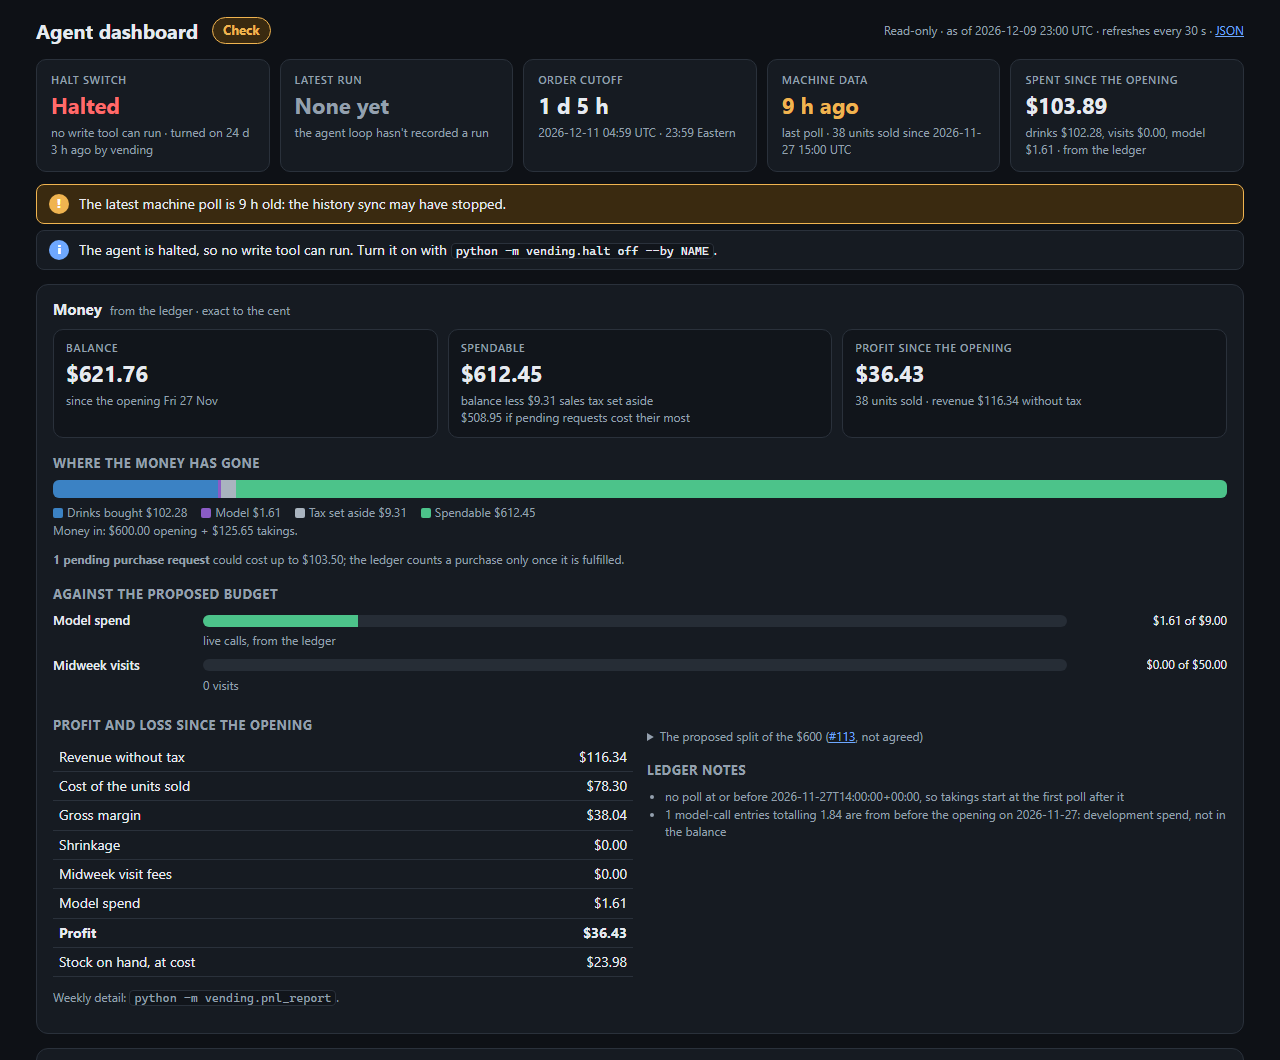
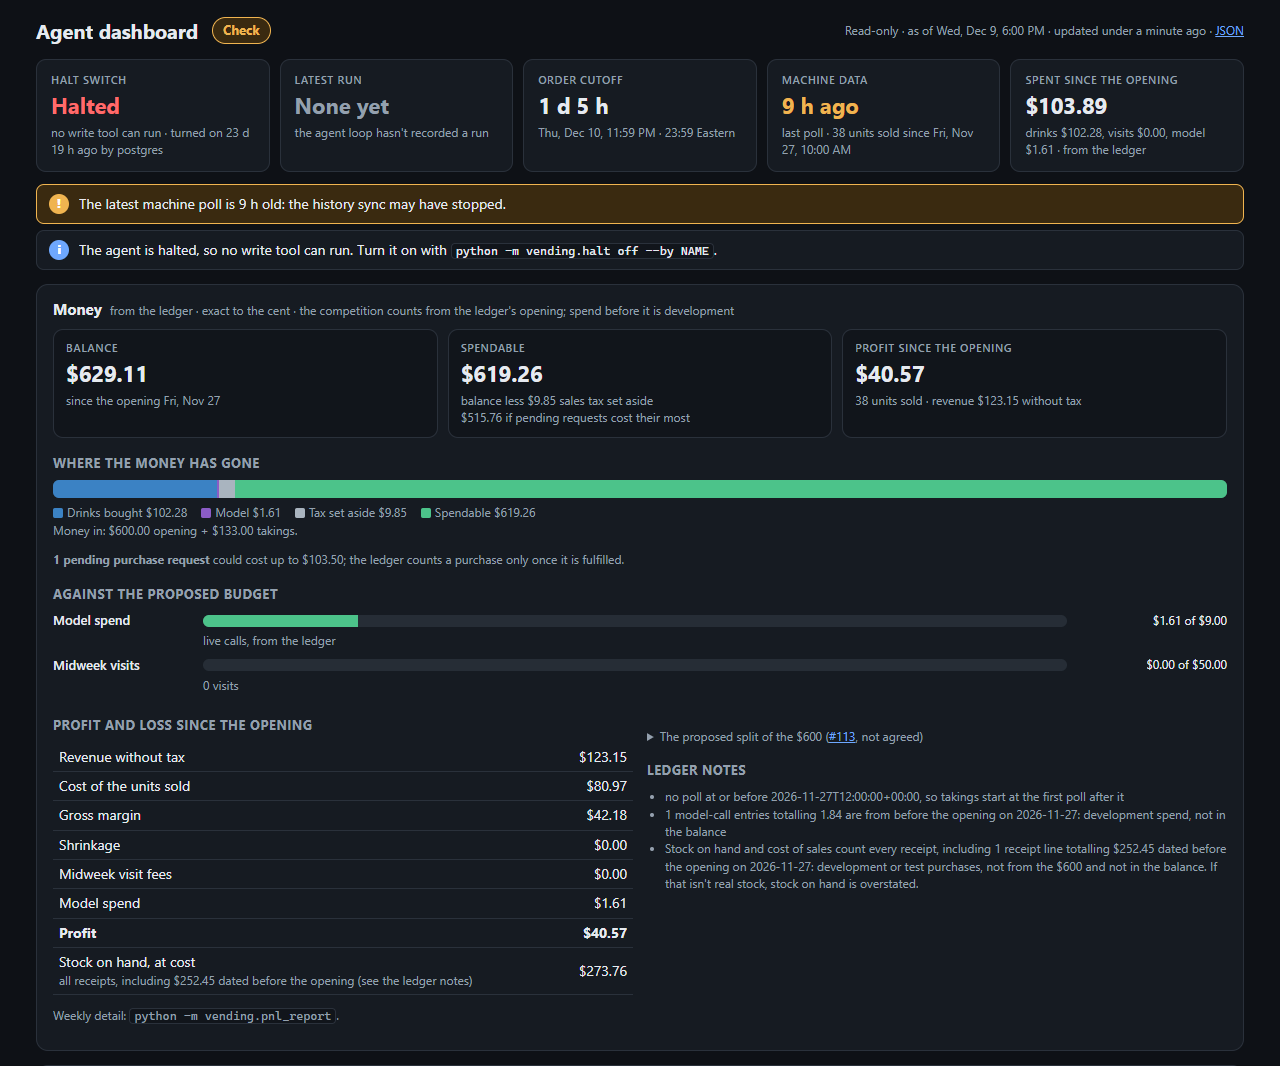
Dashboard docs: the money panel's period, its sources, and new screenshots
The module outline lists the money panel, the Tiles row names
vending.ledger as a source and says spend before the opening is
development, and "Where it could go next" no longer says the balance
tiles need the ledger. The screenshots show the stock line's note for
receipts from before the opening.

diff --git a/docs/dashboard.md b/docs/dashboard.md
@@ -31,13 +31,13 @@ what changed and why.
 | Part | What's in it | Where it comes from |
 |---|---|---|
 | Verdict | **OK**, **Check** or **Problem** next to the title (and in the browser tab), from the worst item in Needs attention | everything below |
-| Tiles | The halt switch and who last changed it; the latest run and how long it has run; a countdown to the Thursday 23:59 Eastern cutoff; how old the last machine poll is and units sold since; what has been spent on drinks (fulfilled requests) and on the model (run costs); once the ledger has its opening entry, what has been spent since the opening, from the ledger, so the page gives one figure; on the container, who has looked: browsers, visits and sign-ins, all time and this week (`vending.visits`; see [`deploy.md`](deploy.md#the-public-pages)) | `config`, `agent_runs`, `polls`, `purchase_requests`, `page_visits`, `page_visit_totals` |
+| Tiles | The halt switch and who last changed it; the latest run and how long it has run; a countdown to the Thursday 23:59 Eastern cutoff; how old the last machine poll is and units sold since; what has been spent on drinks (fulfilled requests) and on the model (run costs), labelled as development and test spend before the opening, not from the \$600; once the ledger's opening entry is in the past, what has been spent since the opening, from the ledger, so the page gives one figure; on the container, who has looked: browsers, visits and sign-ins, all time and this week (`vending.visits`; see [`deploy.md`](deploy.md#the-public-pages)) | `config`, `agent_runs`, `polls`, `purchase_requests`, `vending.ledger`, `page_visits`, `page_visit_totals` |
 | Needs attention | One sentence per thing a person should look at, worst first. **Problem:** the latest run failed, or has said `running` for over 2 hours. **Check:** refused or failed tool calls in the last 24 hours; polls over 3 hours old; a catalog request stuck in `sending` or `unknown`; the latest purchase request rejected; and within 24 hours of the cutoff, still halted or no Friday request sent. **Info** (doesn't change the verdict): halted, no polls yet, stock warnings from the receipts, a panel whose table is missing | the snapshot |
 | In the machine | A close-up of our selections, one shelf at a time, beside a small drawing of the machine's front (5 shelves of 8; row r, column c is selection "rc") that picks the shelf. Which selections are ours comes only from the stored assignment (`vending.slots.our_slots`, kept by `python -m vending.slots record`), read on every page; with none stored the panel says so and draws nothing. Each of ours is a lane seen from above the front edge: the packages on the rail, dashed empty slots, its number plate and price tag, then the product, the count and what Friday does to it. Every other selection is a grey card with its number and "Not ours", and nothing else about it is in the page or `/state.json`. **Now** is the tag price from the latest poll and the product and units on hand from the receipts, or from a person's count where the receipts don't know the slot or the count is newer (see below). **Next Friday** is the latest plan: the empty slots fill in, a swap draws the new product's package and colours, a pull empties the lane, a new price shows the old one struck through, and the agent's reason sits under the lane on one line. Beside it, each change with the agent's reason. "plan row" opens the selection in the plan | `vending.stock` (receipts and polls), `get_machine_state` (polls), `agent_runs`, `catalog_products`, `config.capacity_overrides` |
 | The plan | "N of 20 slots changed since run #X", a chip per change that jumps to the slot and opens its reason, a "Show changed slots only" switch, then one line per slot (product, price, fill, change tags) that opens to the reason, what it was, and what the slot holds and sold this week. Under it, the weekly update for the team and the notes to itself | `agent_runs`, `vending.stock`, `get_machine_state` |
 | Runs | The last 10 runs as a timeline: mode, model, how long, cost, request, how it ended, and chips for every slot its plan changed from the plan before it. Under each, **How it decided** opens the run's steps in order: the model's reasoning (a summary the API returns, never the raw chain of thought), anything it wrote, each tool call and what came back, with failed replies in red. A run in progress shows the steps so far | `agent_runs`, `agent_steps` |
 | Tool calls | Counts for the last 24 hours, then the last 50 calls. Writes are marked W and shaded; refused and failed calls are red. Filter to writes or to refused and failed; each call's arguments open on a click | `action_log` |
-| Money | **Balance**, **spendable** (balance less the sales tax set aside) and **profit since the opening**. One bar shows where the money in (opening, capital, takings) has gone: drinks bought, midweek visits, model spend, tax handed over, tax set aside, and what is still spendable. Then model spend against the proposed \$9 and visit fees against the proposed \$50, the profit and loss since the opening, the proposed split of the \$600 (#113), and the ledger's notes, such as development spend from before the opening. **Committed:** what the pending purchase requests could still cost at most (the dearer of each line's primary and alternate at `packs x max_price_per_pack`, plus an off-cycle request's visit fee), since the ledger counts a purchase only once it is fulfilled. Before the opening entry, it says how to record it. A submission sent with no usable answer (`sending` or `unknown` in `purchase_submissions`) counts as committed too, since it may exist at the bridge. Needs attention adds: **Problem** if spendable is below zero, or if pending requests could cost more than is spendable; **Check** if spendable would fall under the proposed \$53 floor, if requests are pending with no opening entry, if a submission is unsettled, or if the ledger can't give a balance (for example, our slot assignment isn't recorded); **Info** if model spend passes \$9 | `vending.ledger` (`balance`, `pnl`), `purchase_requests`, `purchase_submissions` |
+| Money | **Balance**, **spendable** (balance less the sales tax set aside) and **profit since the opening**. One bar shows where the money in (opening, capital, takings) has gone: drinks bought, midweek visits, model spend, tax handed over, tax set aside, and what is still spendable. Then model spend against the proposed \$9 and visit fees against the proposed \$50, the profit and loss since the opening, the proposed split of the \$600 (#113), and the ledger's notes, such as development spend from before the opening. **Committed:** what the pending purchase requests could still cost at most (the dearer of each line's primary and alternate at `packs x max_price_per_pack`, plus an off-cycle request's visit fee), since the ledger counts a purchase only once it is fulfilled. The competition counts from the ledger's opening entry; anything before it is development and test spend, not from the \$600, and no figure here counts it. Before the opening entry, it says how to record it; an opening entry dated in the future (recorded ahead with `--at`) keeps that view and says when the ledger opens. Stock on hand and cost of sales replay every receipt, so when receipts dated before the opening are stored, the stock line says so and a ledger note gives their count and total. A submission sent with no usable answer (`sending` or `unknown` in `purchase_submissions`) counts as committed too, since it may exist at the bridge. Needs attention adds: **Problem** if spendable is below zero, or if pending requests could cost more than is spendable; **Check** if spendable would fall under the proposed \$53 floor, if requests are pending with no opening entry, if a submission is unsettled, or if the ledger can't give a balance (for example, our slot assignment isn't recorded); **Info** if model spend passes \$9 | `vending.ledger` (`balance`, `pnl`), `purchase_requests`, `purchase_submissions` |
 | Requests | Our last 10 purchase requests (status, what was paid, lines loaded, unavailable and alternates) and catalog requests | `purchase_requests`, `purchase_lines`, `product_requests` |
 | Back stock | What the receipts say is in the closet, and what each unit cost us | `vending.stock` |
 
@@ -203,9 +203,8 @@ Times on the page show in your browser's time zone. On Windows, the cutoff date 
 
 Ideas for the team to react to. None of this is built.
 
-**A. Headline numbers and stock.** Tiles for the halt switch, the cutoff countdown, the balance
-and the week's profit, and a stock bar in each slot. The tiles need the ledger (#35) and token
-spend (#40); the stock bars can use `vending.stock` today.
+**A. The week's profit.** The Money panel shows profit since the opening; a week-by-week view
+(`ledger.pnl_by_week`, as `python -m vending.pnl_report` prints it) isn't on the page yet.
 
 **B. Plan history.** One card per week: the update, the slots that changed, the notes, what it
 cost. Everything it needs is in `agent_runs` once #39 writes it.
